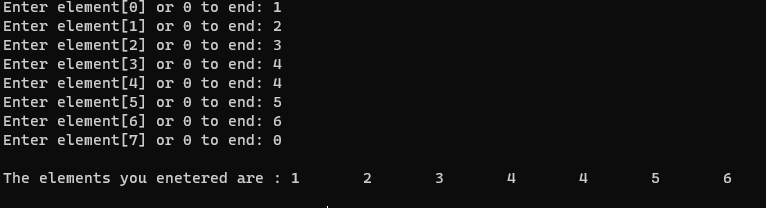
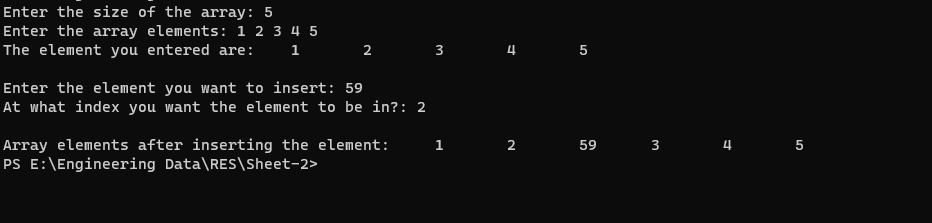
Modified element insertion code

diff --git a/Sheet-2/insertElement.c b/Sheet-2/insertElement.c
@@ -1,32 +1,48 @@
 #include <stdio.h>
+#define MAX_SIZE 50
 
 int main(void)
 {
     int n;
-    int arr[50];
+    int size;
+    int pos;
+    int arr[MAX_SIZE];
 
-    for (int i = 0; i < 50; i++)
+    printf("Enter the size of the array: ");
+    scanf("%d", &size);
+    printf("Enter the array elements: ");
+    for (int i = 0; i < size; i++)
     {
-        printf("Enter element[%d] or 0 to end: ", i);
         scanf("%d", &arr[i]);
-
-        if (arr[i] == 0)
-        {
-            break;
-        }
-        
     }
-
-    printf("\nThe elements you enetered are : ");
-    for (int i = 0; i < 50; i++)
+    printf("The elements you entered are: ");
+    for (int i = 0; i < size; i++)
     {
-        if (arr[i] != 0)
-        {
-            printf("%d\t", arr[i]);
-        }
-        else
-            break;
-        
+        printf("\t%d", arr[i]);
     }
-    printf("\n\n");
+    puts(" ");
+
+    printf("\nEnter the element you want to insert: ");
+    scanf("%d", &n);
+    printf("At what index you want the element to be in?: ");
+    scanf("%d", &pos);
+
+    if (pos > size || pos < 0)
+        printf("Invalid position!");
+    else
+    {
+        ++size;
+        for (int i = size; i >= pos; i--)
+        {
+            arr[i] = arr[i - 1];
+        }
+    }
+    arr[pos] = n;
+    
+    printf("\nArray elements after inserting the element: ");
+    for (int i = 0; i < size; i++)
+    {
+        printf("\t%d", arr[i]);
+    }
+    
 }
